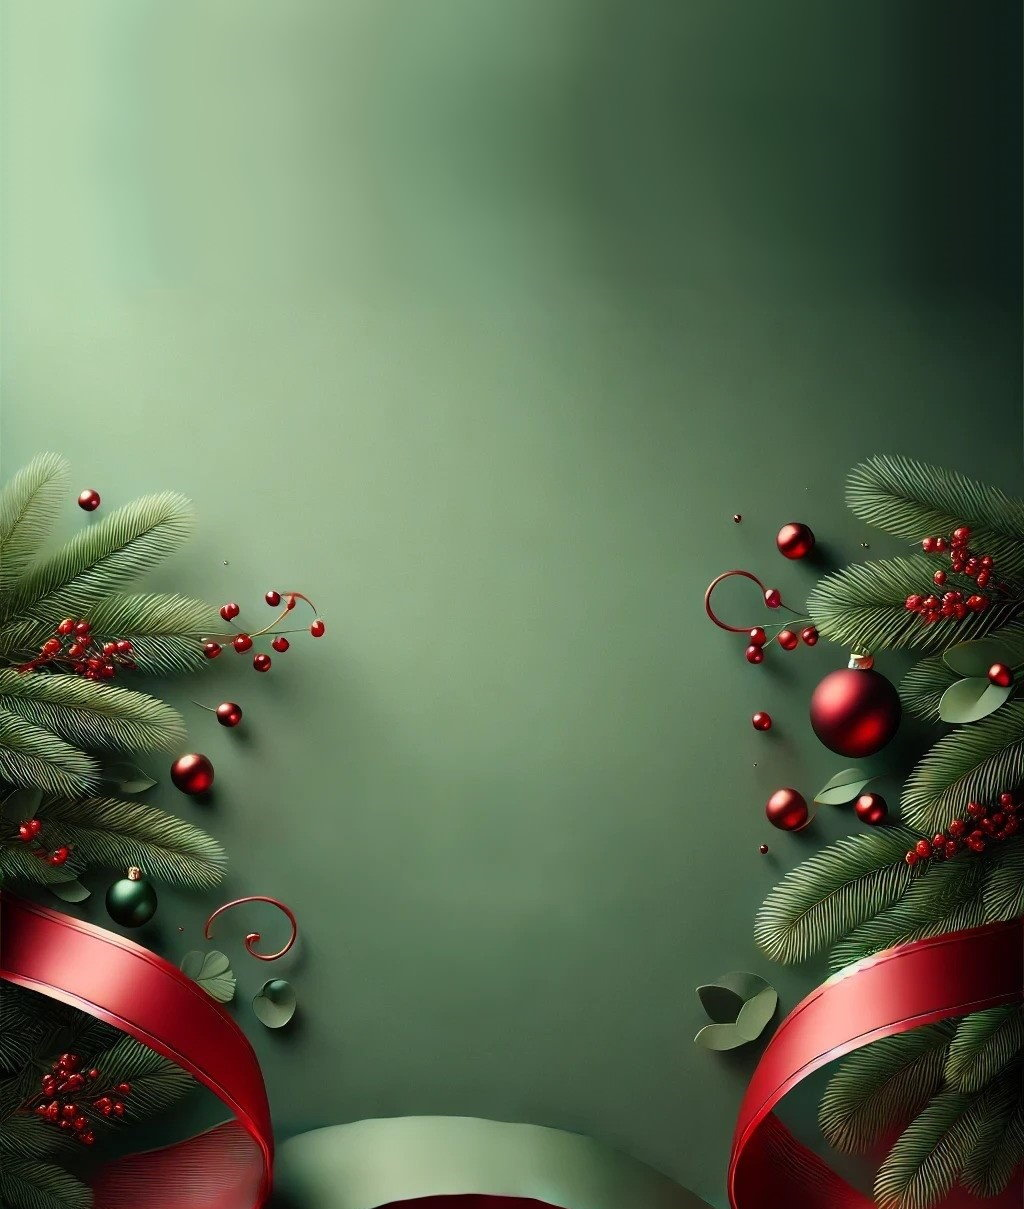
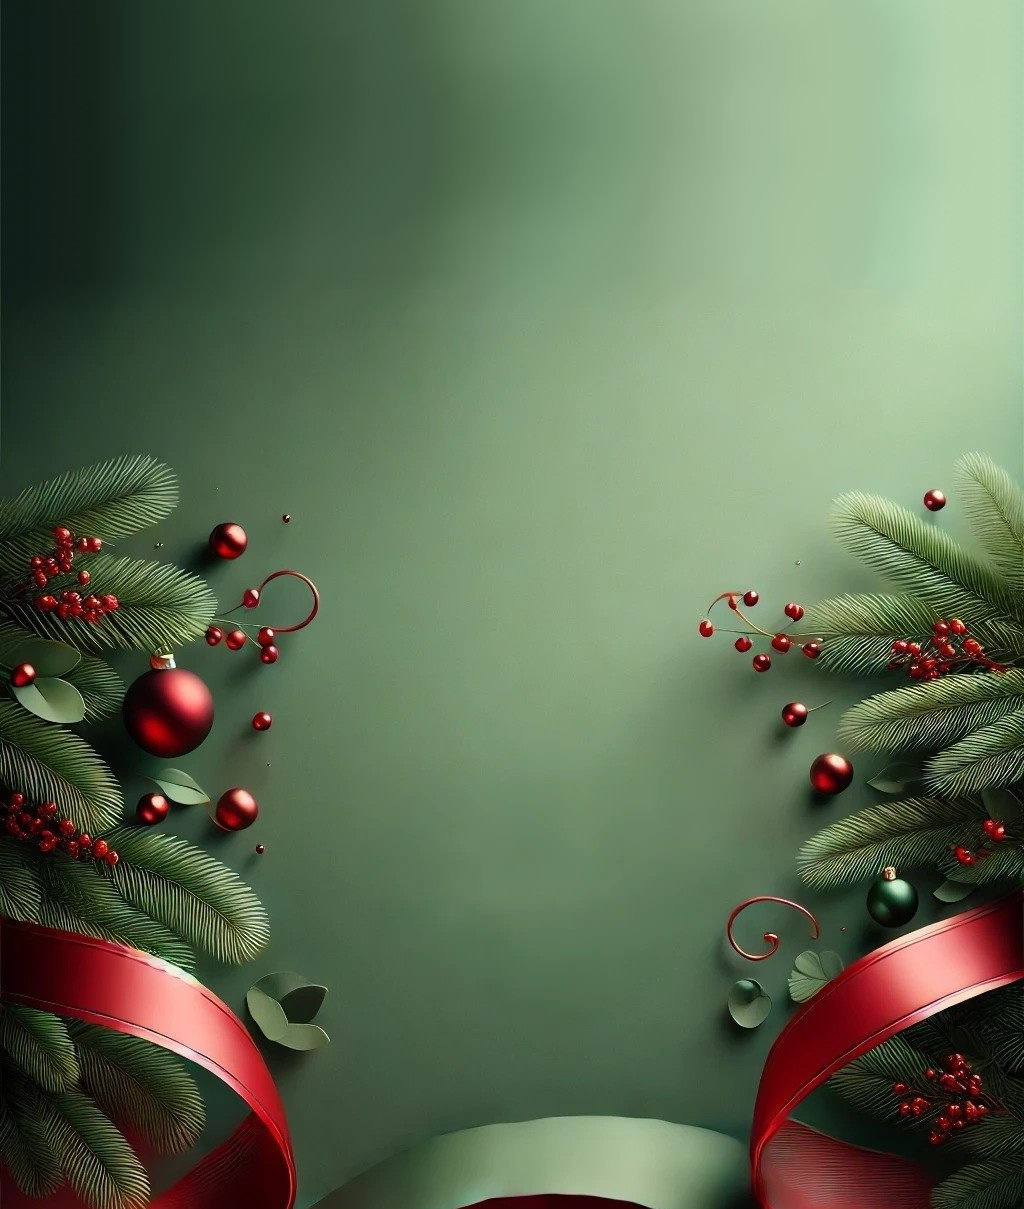
flipped bg image, added border to contact form

diff --git a/css/styles.css b/css/styles.css
@@ -272,8 +272,9 @@ h1 {
 }
 
 #filters p {
-  color: #10551a;
-  font-weight: bold;
+  /* color: #10551a; */
+  color: #f9eb4c;
+  /* font-weight: bold; */
 
   > label {
     font-size: inherit;
@@ -324,13 +325,12 @@ h1 {
 
 /* ---------------------------- Output Container ---------------------------- */
 #output {
-  width: 100%;
   display: flex;
   flex-wrap: wrap;
   gap: 20px;
   margin: 0 auto;
   padding: 0 1em;
-  justify-content: center;
+  justify-content: space-between;
 }
 
 /* ----------------------------- Families List  */
@@ -342,8 +342,10 @@ h1 {
 
 #content-section h2,
 .family-section h2 {
-  color: #f9eb4c;
-  text-shadow: 1px 0 3px #0a2c1d;
+
+  color: #F20B0B;
+  /* color: #f9eb4c;
+  text-shadow: 1px 0 3px #0a2c1d; */
   margin: 20px 20px 40px;
   text-align: center;
   font-size: 2.7rem;
@@ -451,7 +453,6 @@ h1 {
   color: white;
   text-align: center;
   padding: 50px 20px;
-
 }
 
 .contact-section h2 {
@@ -469,6 +470,13 @@ h1 {
 .contact-section label {
   margin-bottom: -10px;
   font-size: 18px;
+}
+
+#contact-form {
+  border: 2px solid #f20b0b;
+  border-radius: 10px;
+  box-shadow: 2px 2px 10px rgba(0, 0, 0, 0.1);
+  padding: 40px 20px 20px;
 }
 
 /* Success Message */
